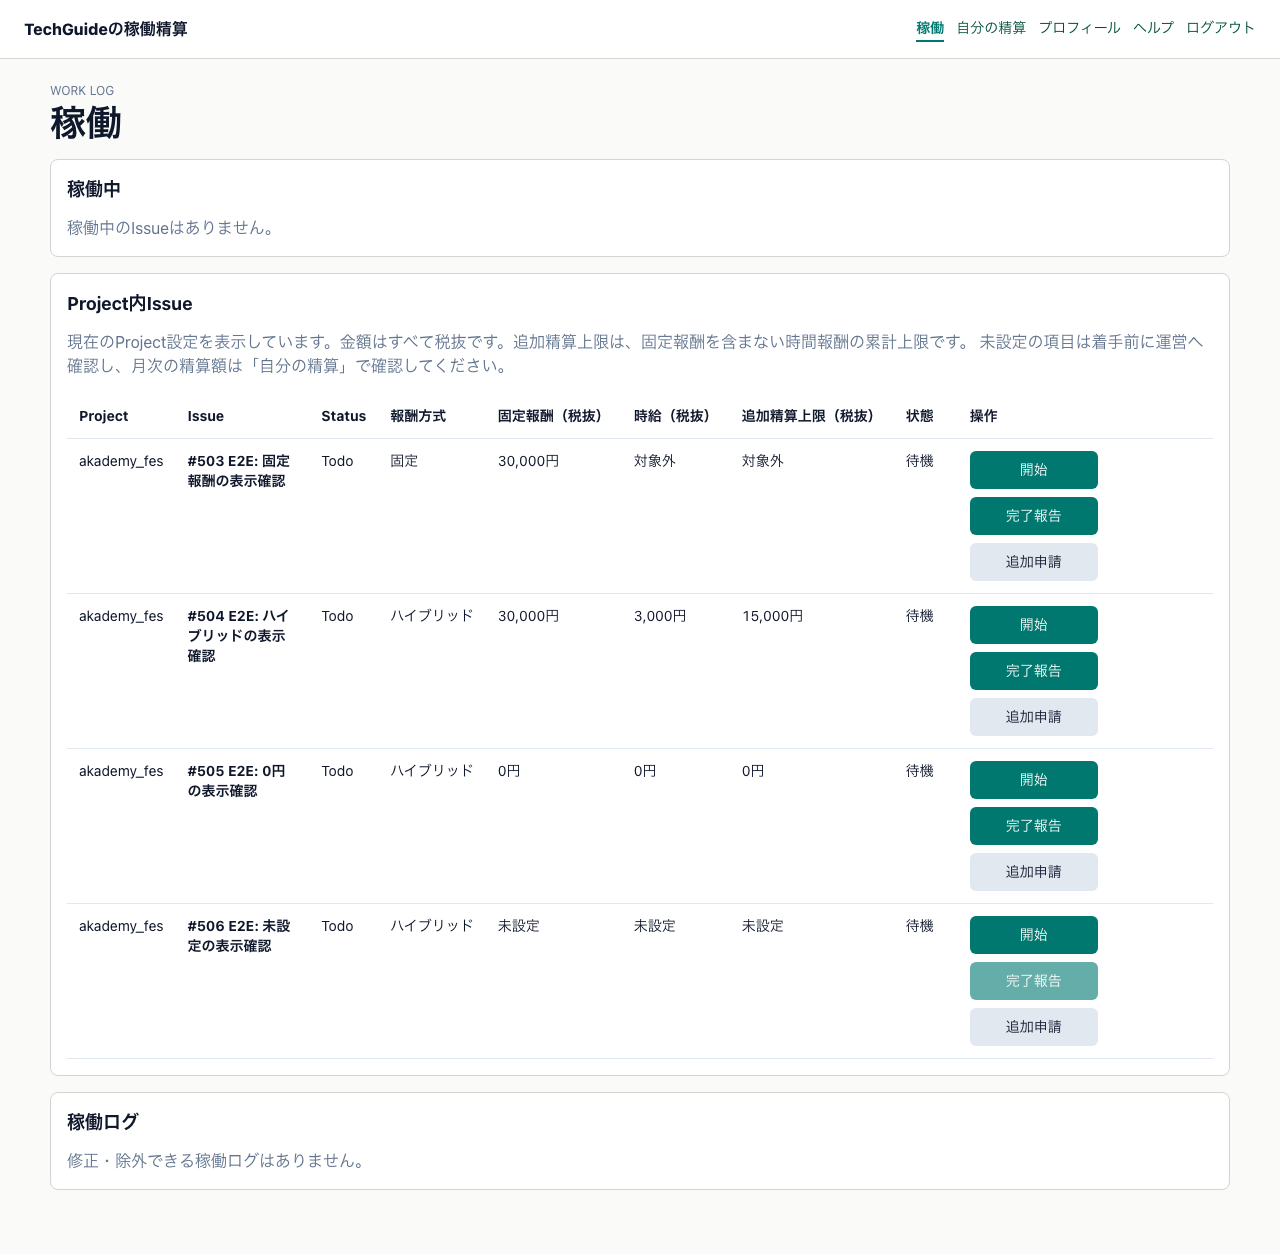
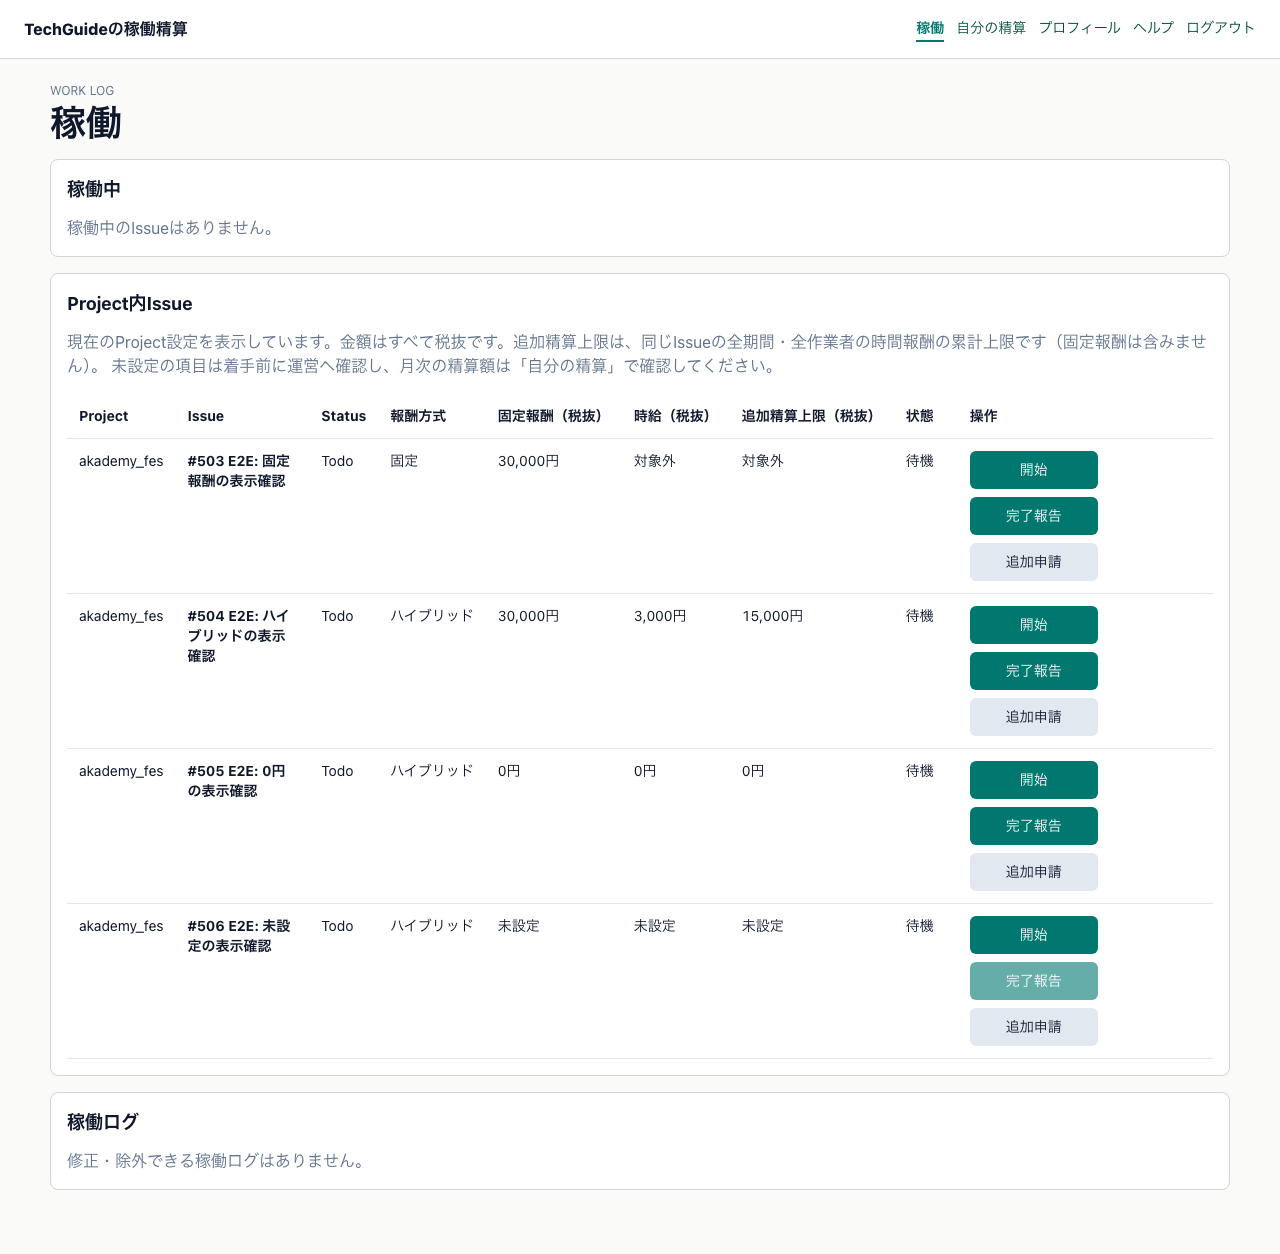
docs: 追加精算上限の対象範囲を明記

Changed region(s): [[0.5, 0.2488, 0.9375, 0.311], [0.0625, 0.2799, 0.4688, 0.311]]

diff --git a/src/routes/work/+page.svelte b/src/routes/work/+page.svelte
@@ -203,7 +203,7 @@
     <p class="muted">Issue一覧を表示できません。</p>
   {:else}
     <p class="muted reward-guide">
-      現在のProject設定を表示しています。金額はすべて税抜です。追加精算上限は、固定報酬を含まない時間報酬の累計上限です。
+      現在のProject設定を表示しています。金額はすべて税抜です。追加精算上限は、同じIssueの全期間・全作業者の時間報酬の累計上限です（固定報酬は含みません）。
       未設定の項目は着手前に運営へ確認し、月次の精算額は「自分の精算」で確認してください。
     </p>
     <div class="table-wrap">

diff --git a/tests/e2e/workflow.spec.ts b/tests/e2e/workflow.spec.ts
@@ -375,7 +375,9 @@ test("作業者が着手前にIssueの報酬条件を確認できる", async ({ 
     page.getByText(/現在のProject設定を表示しています/),
   ).toBeVisible();
   await expect(
-    page.getByText(/固定報酬を含まない時間報酬の累計上限/),
+    page.getByText(
+      /同じIssueの全期間・全作業者の時間報酬の累計上限です（固定報酬は含みません）/,
+    ),
   ).toBeVisible();
 
   await page.setViewportSize({ width: 390, height: 844 });
